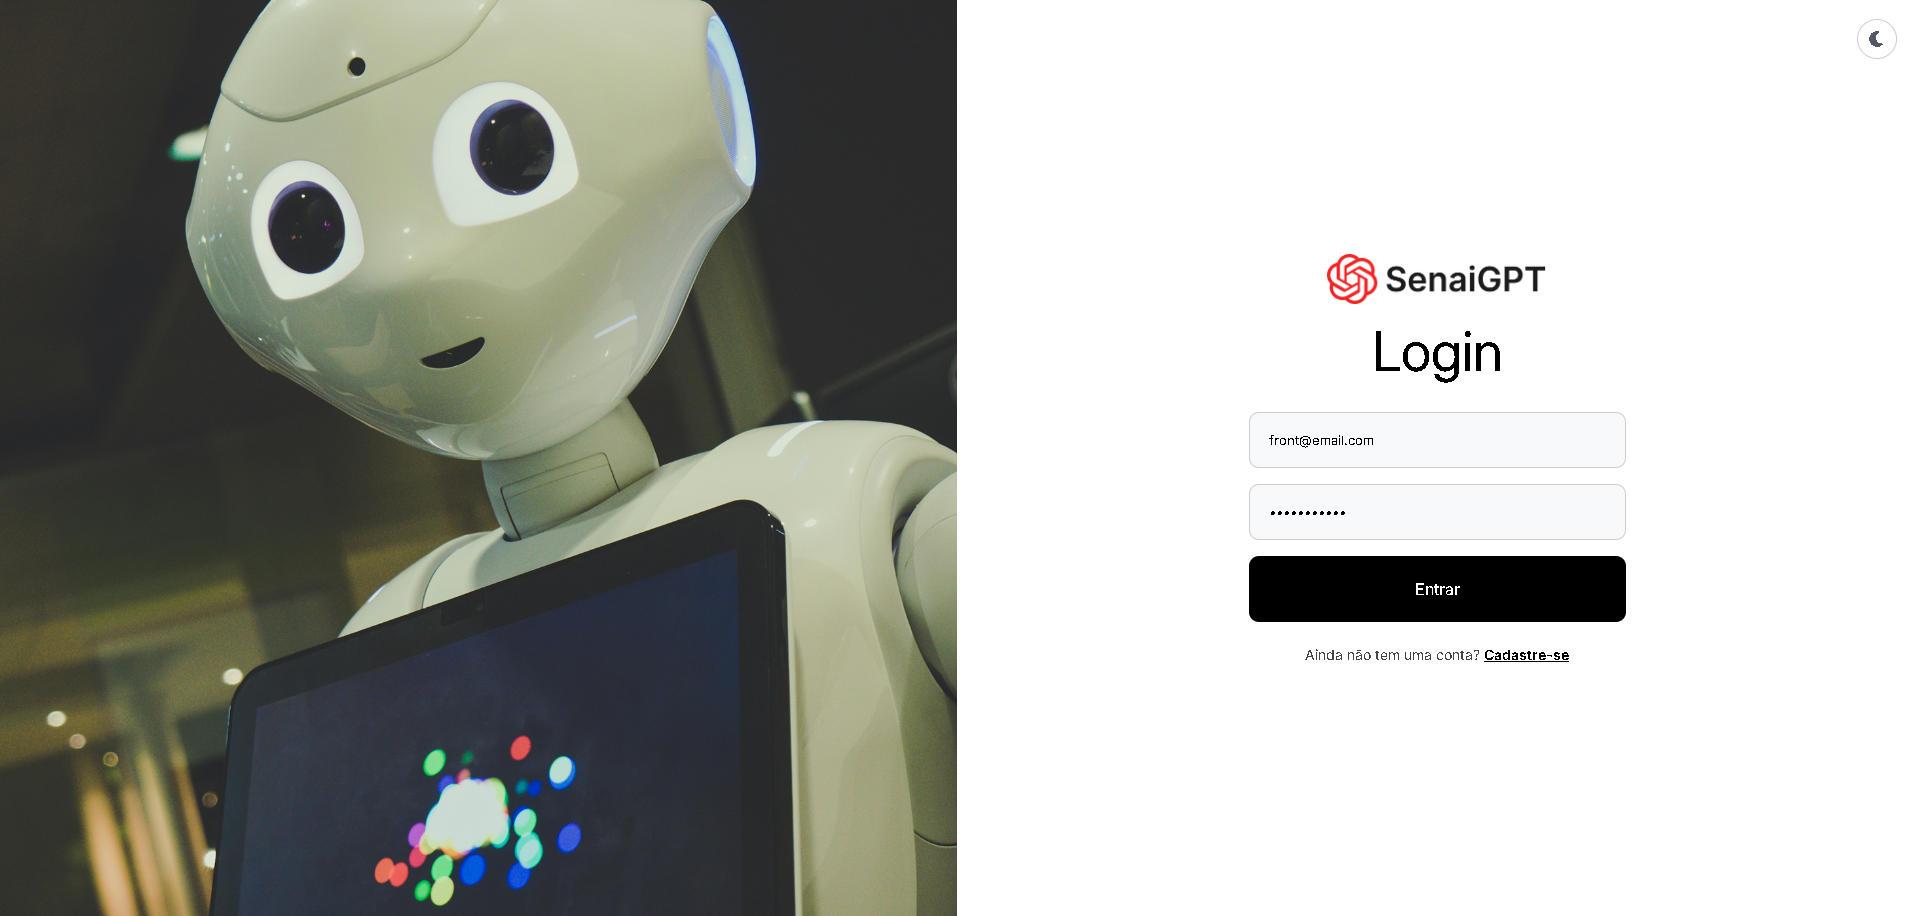
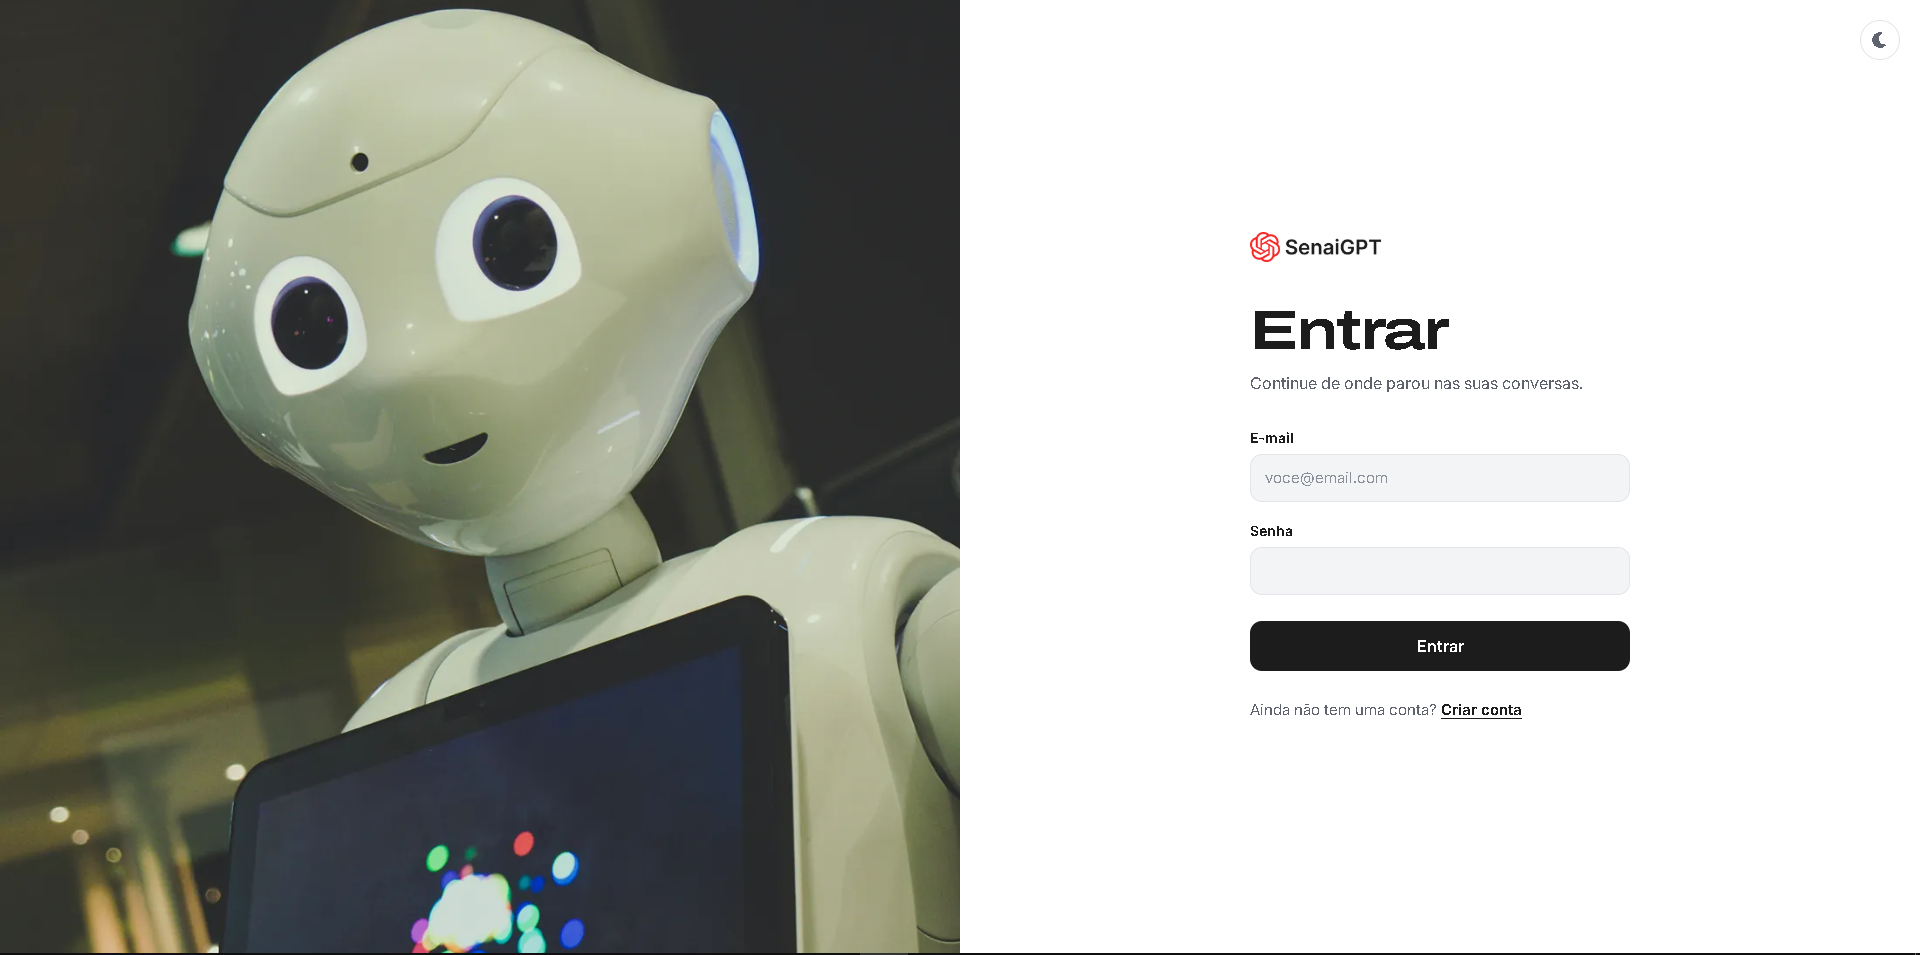
Adiciona Livraria Otium, reordena projetos e remove Excel Básico
- Novo projeto Livraria Otium com imagem e link
- Nova ordem: Pintura Po, Senai Notes, Cinema, Livraria, SenaiGPT, Finanças
- Atualiza imagem do SenaiGPT
- Remove curso Excel Básico da seção Educação

diff --git a/js/projects.js b/js/projects.js
@@ -3,14 +3,13 @@
 // links: array of { label, url } — use as many as you need (front-end, API, demo, etc.)
 const projects = [
   {
-    title: "Cinema",
-    subtitle: "Gerenciamento de Cinema",
-    text: "Sistema full stack para gerenciamento de um cinema: cadastro de filmes, salas e sessões, reserva de assentos e painel administrativo com relatório de receita.",
-    image: "img/cinema.png",
+    title: "Barras & Lotes",
+    subtitle: "Projeto para gerenciamento de produção",
+    text: "App para o setor de Pintura do Grupo Delga registrar lançamentos de produção, ordens, paradas e sobras, e gerenciar o catálogo de peças, com perfis de administrador e operador.",
+    image: "img/pintura-po.png",
     links: [
-      { label: "Acessar projeto", url: "https://projeto-senai-cinema.vercel.app/" },
-      { label: "Front-end", url: "https://github.com/CesarAugustoNew/Projeto-Senai-Cinema" },
-      { label: "API (Spring Boot)", url: "https://github.com/CesarAugustoNew/SpringBootAPI-Cinema" }
+      { label: "Acessar projeto", url: "https://pintura-po.vercel.app/" },
+      { label: "Ver no GitHub", url: "https://github.com/CesarAugustoNew/Pintura-Po" }
     ]
   },
   {
@@ -25,6 +24,26 @@ const projects = [
     ]
   },
   {
+    title: "Cinema",
+    subtitle: "Gerenciamento de Cinema",
+    text: "Sistema full stack para gerenciamento de um cinema: cadastro de filmes, salas e sessões, reserva de assentos e painel administrativo com relatório de receita.",
+    image: "img/cinema.png",
+    links: [
+      { label: "Acessar projeto", url: "https://projeto-senai-cinema.vercel.app/" },
+      { label: "Front-end", url: "https://github.com/CesarAugustoNew/Projeto-Senai-Cinema" },
+      { label: "API (Spring Boot)", url: "https://github.com/CesarAugustoNew/SpringBootAPI-Cinema" }
+    ]
+  },
+  {
+    title: "Livraria Otium",
+    subtitle: "Loja virtual de livros",
+    text: "E-commerce de livraria com catálogo por categorias, busca de livros, lista de favoritos, carrinho com cupom de desconto e login de usuário.",
+    image: "img/livraria.png",
+    links: [
+      { label: "Acessar projeto", url: "https://livraria-otium.vercel.app/" }
+    ]
+  },
+  {
     title: "GPT",
     subtitle: "Simulação de Chat",
     text: "Projeto de simulação do ChatGPT.",
@@ -32,16 +51,6 @@ const projects = [
     links: [
       { label: "Acessar projeto", url: "https://projeto-senai-gpt-angular.vercel.app/login" },
       { label: "Ver no GitHub", url: "https://github.com/CesarAugustoNew/Projeto-Senai-GPT-Angular" }
-    ]
-  },
-  {
-    title: "Barras & Lotes",
-    subtitle: "Projeto para gerenciamento de produção",
-    text: "App para o setor de Pintura do Grupo Delga registrar lançamentos de produção, ordens, paradas e sobras, e gerenciar o catálogo de peças, com perfis de administrador e operador.",
-    image: "img/pintura-po.png",
-    links: [
-      { label: "Acessar projeto", url: "https://pintura-po.vercel.app/" },
-      { label: "Ver no GitHub", url: "https://github.com/CesarAugustoNew/Pintura-Po" }
     ]
   },
   {

diff --git a/index.html b/index.html
@@ -253,17 +253,6 @@
             <span class="text-primary">Julho 2025 - Outubro 2025</span>
           </div>
         </div>
-
-        <div class="resume-item d-flex flex-column flex-md-row mb-5">
-          <div class="resume-content mr-auto">
-            <h3 class="mb-0">Excel Básico</h3>
-            <div class="subheading mb-3">SENAI</div>
-            <div class="cert-link"><a href="certificados/excel-basico.pdf" target="_blank"><i class="fa fa-file-pdf-o"></i>Ver certificado</a></div>
-          </div>
-          <div class="resume-date text-md-right">
-            <span class="text-primary">Julho 2025 - Agosto 2025</span>
-          </div>
-        </div>
         </div>
       </div>
     </section>
